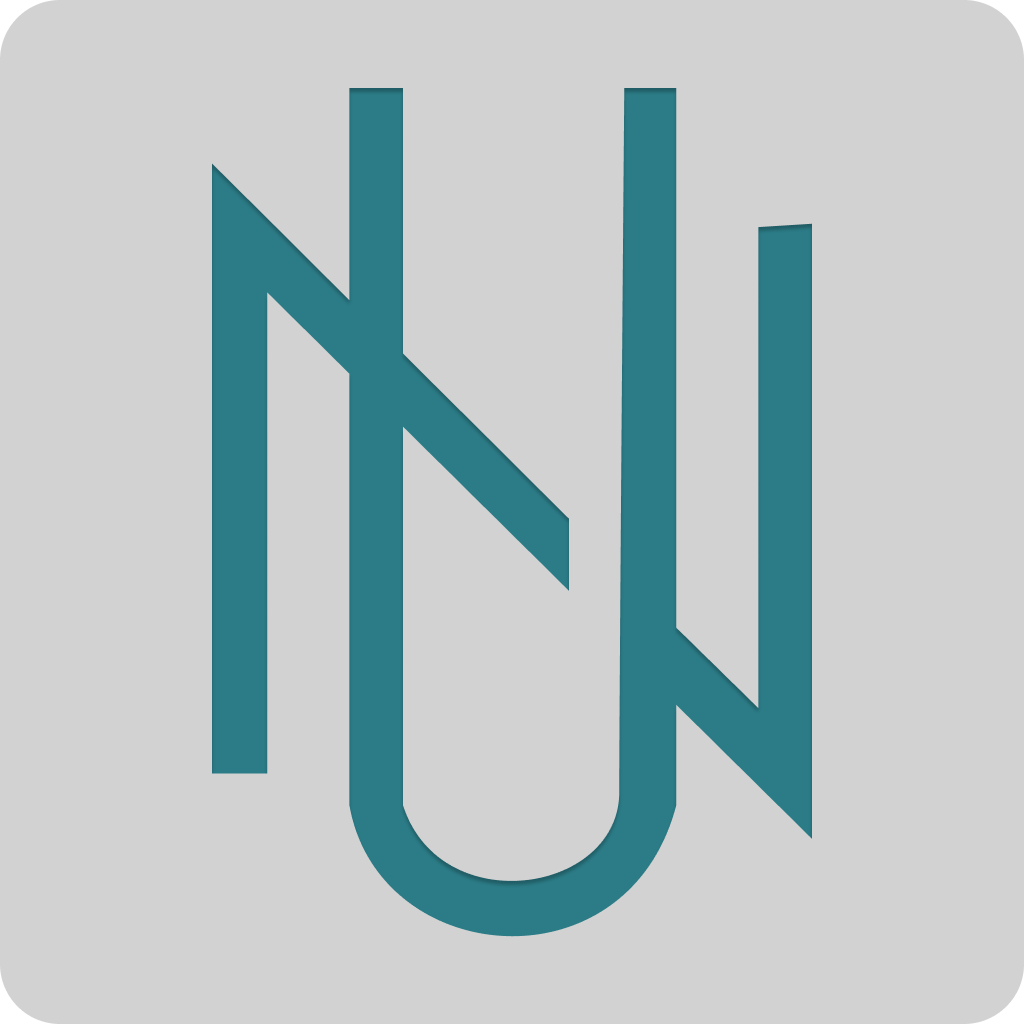
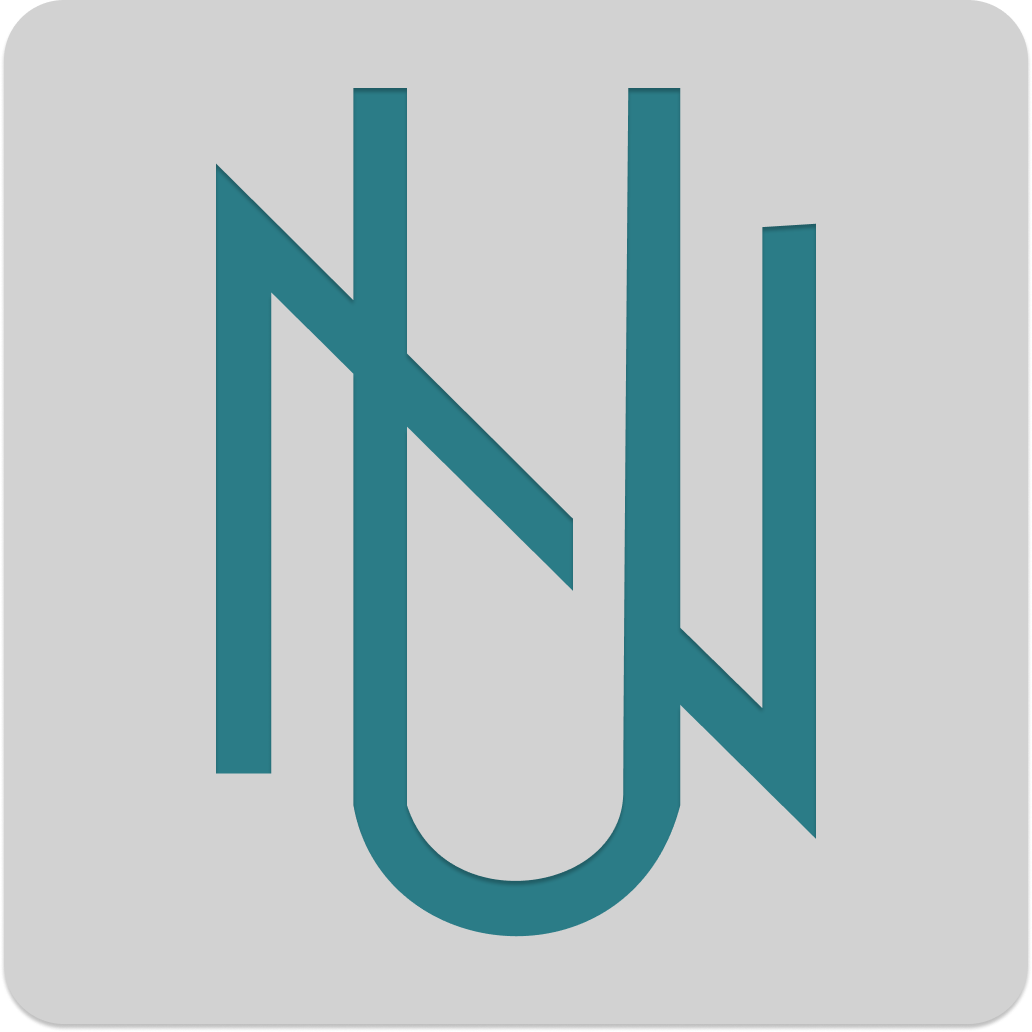
changes splash

diff --git a/App.js b/App.js
@@ -37,10 +37,11 @@ ${error.stack}`));
     }
 
     return (
-      <View style={{ flex: 1 }}>
+      <View style={{ flex: 1,backgroundColor:"#D2D2D2" }}>
         {this.state.Notactive ? <Image
+        resizeMode="contain"
           style={{ width: width, height: height, alignSelf: 'center', }}
-          source={require('./assets/splash2.png')}
+          source={require('./assets/splash1.png')}
           onLoadEnd={() => {
             // wait for image's content to fully load [`Image#onLoadEnd`] (https://facebook.github.io/react-native/docs/image#onloadend)
             console.log('Image#onLoadEnd: hiding SplashScreen');
